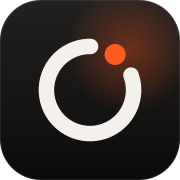
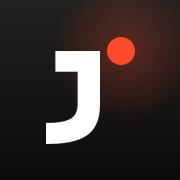
Login: a screen of its own with passkey first, email link second; drop the unused Google login
Also the new J-and-dot logo and app icons, and a hydration fix on the analysis table.

diff --git a/src/app/globals.css b/src/app/globals.css
@@ -330,11 +330,24 @@ body:has(.home) > .site-header { position: absolute; inset-inline: 0; top: 0; }
   position: fixed; inset: 0; z-index: 100;
   display: grid; place-items: center;
   background: var(--bg, #0f0f0e); color: var(--fg, #f1efea);
-  animation: lift 0.9s cubic-bezier(0.76, 0, 0.24, 1) 1.5s forwards;
+  animation: lift 0.9s cubic-bezier(0.76, 0, 0.24, 1) 2.2s forwards;
 }
-.preloader-mark { width: min(22rem, 64vw); animation: fade 0.8s cubic-bezier(0.22, 1, 0.36, 1) 0.15s both; }
-.preloader-mark img { animation: pop 0.7s cubic-bezier(0.34, 1.56, 0.64, 1) 0.6s both; }
-.logo-word { background: currentColor; -webkit-mask: url(/brand/jejak-word.png) center / 100% 100% no-repeat; mask: url(/brand/jejak-word.png) center / 100% 100% no-repeat; }
+.preloader-mark { width: min(24rem, 66vw); }
+/* Logo: the wordmark through a mask (takes the text colour), the orange dot over the K. */
+.logo { position: relative; display: inline-block; aspect-ratio: 1200 / 333; }
+.logo-word { position: absolute; inset: 0; background: currentColor; -webkit-mask: url(/brand/jejak-word.png) center / 100% 100% no-repeat; mask: url(/brand/jejak-word.png) center / 100% 100% no-repeat; }
+.logo-dot { position: absolute; left: 85.75%; top: 13.5%; width: 6.25%; aspect-ratio: 1; border-radius: 50%; background: #ff4b2b; }
+.logo-mark { position: relative; display: inline-block; aspect-ratio: 1; }
+.logo-j { position: absolute; left: 12%; bottom: 8%; height: 72%; aspect-ratio: 707 / 1216; background: currentColor; -webkit-mask: url(/brand/jejak-j.png) center / contain no-repeat; mask: url(/brand/jejak-j.png) center / contain no-repeat; }
+.logo-mark .logo-dot { left: auto; right: 10%; top: 6%; width: 22%; }
+/* the intro: each letter rises out of a soft blur, then the dot drops in, lands, and leaves a ring behind */
+.logo-letter { position: absolute; top: 0; bottom: 0; background: currentColor; -webkit-mask: url(/brand/jejak-word.png) var(--pos) 0 / var(--size) 100% no-repeat; mask: url(/brand/jejak-word.png) var(--pos) 0 / var(--size) 100% no-repeat; animation: letter-in 0.9s cubic-bezier(0.16, 1, 0.3, 1) calc(0.15s + var(--i) * 0.075s) both; }
+.logo.is-animated .logo-dot { animation: dot-drop 0.75s cubic-bezier(0.34, 1.4, 0.64, 1) 0.85s both; }
+.logo.is-animated .logo-dot::after { content: ''; position: absolute; inset: 0; border-radius: 50%; border: 2px solid #ff4b2b; animation: dot-ring 0.9s cubic-bezier(0.16, 1, 0.3, 1) 1.25s both; }
+@keyframes letter-in { from { transform: translateY(35%); opacity: 0; filter: blur(8px); } }
+@keyframes dot-drop { from { transform: translateY(-420%) scale(0.5); opacity: 0; } 60% { opacity: 1; } }
+@keyframes dot-ring { from { transform: scale(1); opacity: 0.9; } to { transform: scale(3.2); opacity: 0; } }
+@media (prefers-reduced-motion: reduce) { .logo-letter, .logo.is-animated .logo-dot, .logo.is-animated .logo-dot::after { animation: none; } }
 .preloader-name { position: absolute; bottom: 2rem; font-size: 0.85rem; letter-spacing: 0.02em; animation: fade 0.6s ease 0.5s both; }
 .intro-seen .preloader { display: none; }
 @keyframes lift { to { transform: translateY(-100%); visibility: hidden; } }
@@ -607,3 +620,26 @@ html.lenis, html.lenis body { height: auto; }
 .tabbar-more .sheet a:active, .tabbar-more .sheet button:active { background: var(--tint); }
 .tabbar-more[open] summary { color: var(--fg); }
 @keyframes sheet-in { from { opacity: 0; translate: 0 8px; scale: 0.97; } }
+
+/* Login: its own quiet screen over the admin chrome, one clear way in. */
+.login { position: fixed; inset: 0; z-index: 60; display: grid; place-items: center; align-content: center; gap: 1.5rem; padding: max(1.5rem, env(safe-area-inset-top)) 1.25rem max(1.5rem, env(safe-area-inset-bottom)); background: radial-gradient(60% 50% at 50% 0%, color-mix(in srgb, var(--orange) 14%, transparent), transparent 70%), var(--bg); overflow-y: auto; }
+.login-card { width: min(100%, 24rem); display: grid; gap: 1rem; padding: 2rem 1.75rem 1.6rem; border-radius: 1.75rem; border: 1px solid var(--line); background: color-mix(in srgb, var(--bg) 82%, var(--fg) 3%); box-shadow: 0 30px 80px -40px rgb(0 0 0 / 0.7); animation: login-in 600ms cubic-bezier(.16, 1, .3, 1) both; }
+.login-mark { width: 3.4rem; justify-self: center; color: var(--fg); padding: 0.55rem; border-radius: 1rem; background: linear-gradient(#232120, #0c0b0b); box-shadow: inset 0 0 0 1px rgb(255 255 255 / 0.08); }
+.login-title { margin: 0.25rem 0 0; text-align: center; font-size: 1.75rem !important; font-weight: 600; letter-spacing: -0.02em; }
+.login-sub { margin: -0.6rem 0 0.4rem; text-align: center; color: var(--soft); font-size: 0.95rem; }
+.login-passkey { display: flex; width: 100%; align-items: center; justify-content: center; gap: 0.6rem; padding: 0.95rem 1rem; border-radius: 1rem; background: var(--fg); color: var(--bg); font-weight: 600; font-size: 1rem; transition: background 160ms, scale 160ms; }
+.login-passkey svg { width: 1.35rem; height: 1.35rem; }
+.login-passkey:hover { background: var(--orange); color: #fff; }
+.login-passkey:active { scale: 0.98; }
+.login-passkey:disabled { opacity: 0.7; }
+.login-or { display: flex; align-items: center; gap: 0.75rem; color: var(--soft); font-size: 0.8rem; }
+.login-or::before, .login-or::after { content: ''; flex: 1; height: 1px; background: var(--line); }
+.login-email { display: grid; grid-template-columns: 1fr auto; gap: 0.5rem; }
+.login-email .field { border-radius: 0.9rem; }
+.login-email .btn { border-radius: 0.9rem; white-space: nowrap; }
+.login-hint { margin: 0; color: var(--soft); font-size: 0.8rem; text-align: center; line-height: 1.45; }
+.login-msg { margin: 0; padding: 0.7rem 0.9rem; border-radius: 0.9rem; background: var(--tint); font-size: 0.9rem; }
+.login-msg.is-error { color: var(--orange); background: color-mix(in srgb, var(--orange) 10%, transparent); }
+.login-back { color: var(--soft); font-size: 0.9rem; }
+.login-back:hover { color: var(--fg); }
+@keyframes login-in { from { opacity: 0; translate: 0 12px; scale: 0.985; } }

diff --git a/src/app/admin/login/page.tsx b/src/app/admin/login/page.tsx
@@ -1,39 +1,46 @@
+import Link from 'next/link'
+import { LogoMark } from '@/components/logo'
 import { configured } from '@/lib/supabase'
-import { signIn, signInEmail } from '../actions'
+import { signInEmail } from '../actions'
 import { PasskeySignIn } from '../passkey'
 
 export const instant = false
 
+const errors: Record<string, string> = {
+  forbidden: 'Akun itu bukan pemilik situs ini.',
+  failed: 'Login gagal atau link sudah kedaluwarsa. Coba lagi.',
+  email: 'Alamat email tidak valid.',
+}
+
+/** A screen of its own, over the admin chrome: the passkey first, the email link as the way in on a new device. */
 export default async function Login({ searchParams }: PageProps<'/admin/login'>) {
   const { e, m, sent } = await searchParams
+  const error = typeof e === 'string' ? (e === 'send' ? `Gagal mengirim link${typeof m === 'string' ? `: ${m}` : '.'}` : errors[e]) : null
   return (
-    <div className="panel max-w-md">
-      <h1>Masuk</h1>
-      <p className="mt-3 text-[var(--soft)]">Hanya pemilik yang bisa masuk.</p>
-      {e === 'forbidden' && <p role="alert" className="mt-4 text-accent">Akun itu bukan pemilik situs ini.</p>}
-      {e === 'failed' && <p role="alert" className="mt-4 text-accent">Login gagal atau link sudah kedaluwarsa. Coba lagi.</p>}
-      {e === 'email' && <p role="alert" className="mt-4 text-accent">Alamat email tidak valid.</p>}
-      {e === 'send' && <p role="alert" className="mt-4 text-accent">Gagal mengirim link{typeof m === 'string' ? `: ${m}` : '.'}</p>}
-      {sent && <p role="status" className="mt-4">Link masuk sudah dikirim. Buka email Anda di perangkat ini.</p>}
-      {configured ? (
-        <div className="mt-8 grid gap-6">
-          <PasskeySignIn />
-          <p className="note -mt-3">Perangkat baru? Masuk sekali lewat email, lalu simpan passkey di Perangkat & keamanan.</p>
-          <form action={signInEmail} className="grid gap-3">
-            <label className="grid gap-1">
-              <span className="note">Email pemilik</span>
-              <input name="email" type="email" required autoComplete="email" className="field" />
-            </label>
-            <button className="btn justify-self-start">Kirim link masuk</button>
-          </form>
-          <form action={signIn}>
-            <button className="btn btn-quiet">Masuk dengan Google</button>
-            
-          </form>
-        </div>
-      ) : (
-        <p className="mt-8">Supabase belum dikonfigurasi. Isi <code>.env.local</code> sesuai README.</p>
-      )}
+    <div className="login">
+      <div className="login-card">
+        <LogoMark className="login-mark" />
+        <h1 className="login-title">Personal OS</h1>
+        <p className="login-sub">Masuk untuk melanjutkan. Hanya pemilik.</p>
+
+        {error && <p role="alert" className="login-msg is-error">{error}</p>}
+        {sent && <p role="status" className="login-msg">Link masuk sudah dikirim. Buka email di perangkat ini.</p>}
+
+        {configured ? (
+          <>
+            <PasskeySignIn />
+            <div className="login-or"><span>atau lewat email</span></div>
+            <form action={signInEmail} className="login-email">
+              <input name="email" type="email" required autoComplete="email webauthn" placeholder="Email pemilik" aria-label="Email pemilik" className="field" />
+              <button className="btn btn-quiet">Kirim link</button>
+            </form>
+            <p className="login-hint">Perangkat baru? Masuk sekali lewat email, lalu simpan passkey di menu Perangkat.</p>
+          </>
+        ) : (
+          <p className="login-msg">Supabase belum dikonfigurasi. Isi <code>.env.local</code> sesuai README.</p>
+        )}
+      </div>
+      <Link href="/" className="login-back">← Kembali ke situs</Link>
     </div>
   )
 }

diff --git a/src/components/logo.tsx b/src/components/logo.tsx
@@ -1,19 +1,37 @@
-import Image from 'next/image'
+import type { CSSProperties } from 'react'
 
-/**
- * The JEJAK logo. The wordmark is drawn in the current text colour (white artwork would vanish on the light theme),
- * the disc keeps its own red. Numbers are the disc's place in public/brand/jejak.png.
- */
-export function Logo({ className }: { className?: string }) {
+// The JEJAK wordmark is public/brand/jejak-word.png (1200×333, letters in these columns); it is drawn in the current
+// text colour through a mask. The logogram is the wordmark's own J with the orange dot: the mark left behind.
+const LETTERS: [number, number][] = [[0, 146], [181, 346], [368, 514], [535, 781], [798, 1009]]
+const W = 1200
+
+/** Full logo: JEJAK with the dot floating over the K. `animated` plays the intro: letters rise, then the dot lands. */
+export function Logo({ className, animated }: { className?: string; animated?: boolean }) {
   return (
-    <span role="img" aria-label="Jejak" className={`relative inline-block aspect-[5833/1621] ${className ?? ''}`}>
-      <span className="logo-word absolute inset-0" aria-hidden />
-      <Image src="/brand/jejak-mark.png" alt="" width={256} height={256} className="absolute top-0 right-0 h-[47.8%] w-auto" />
+    <span role="img" aria-label="Jejak" className={`logo ${animated ? 'is-animated' : ''} ${className ?? ''}`}>
+      {animated ? (
+        LETTERS.map(([a, b], i) => (
+          <span
+            key={a}
+            className="logo-letter"
+            aria-hidden
+            style={{ left: `${(a / W) * 100}%`, width: `${((b - a) / W) * 100}%`, '--size': `${(W / (b - a)) * 100}%`, '--pos': `${(a / (W - (b - a))) * 100}%`, '--i': i } as CSSProperties}
+          />
+        ))
+      ) : (
+        <span className="logo-word" aria-hidden />
+      )}
+      <span className="logo-dot" aria-hidden />
     </span>
   )
 }
 
-/** Just the disc, for small spots. */
+/** Just the logogram, for small spots (footer, app icon). */
 export function LogoMark({ className }: { className?: string }) {
-  return <Image src="/brand/jejak-mark.png" alt="" aria-hidden width={256} height={256} className={className} />
+  return (
+    <span role="img" aria-label="Jejak" className={`logo-mark ${className ?? ''}`}>
+      <span className="logo-j" aria-hidden />
+      <span className="logo-dot" aria-hidden />
+    </span>
+  )
 }

diff --git a/src/app/admin/passkey.tsx b/src/app/admin/passkey.tsx
@@ -5,8 +5,13 @@ import { useState } from 'react'
 import { noteSignIn } from './actions'
 
 const client = () => createBrowserClient(process.env.NEXT_PUBLIC_SUPABASE_URL!, process.env.NEXT_PUBLIC_SUPABASE_ANON_KEY!)
-const say = (e: { message?: string; code?: string }) =>
-  /abort|cancel|NotAllowed/i.test(`${e.code} ${e.message}`) ? 'Dibatalkan.' : e.message ?? 'Gagal.'
+const say = (e: { message?: string; code?: string }) => {
+  const s = `${e.code} ${e.message}`
+  if (/abort|cancel|NotAllowed/i.test(s)) return 'Dibatalkan.'
+  if (/disabled/i.test(s)) return 'Passkey belum aktif di server.'
+  if (/not found|no credential|unknown/i.test(s)) return 'Belum ada passkey di perangkat ini. Masuk lewat email dulu.'
+  return e.message ?? 'Gagal.'
+}
 
 /** One tap with the fingerprint, face or device PIN: the passkey saved on this device signs the owner in. */
 export function PasskeySignIn() {
@@ -17,7 +22,7 @@ export function PasskeySignIn() {
     <div className="grid gap-2">
       <button
         type="button"
-        className="btn justify-self-start"
+        className="login-passkey"
         disabled={busy}
         onClick={async () => {
           setBusy(true)
@@ -34,9 +39,12 @@ export function PasskeySignIn() {
           setBusy(false)
         }}
       >
-        {busy ? 'Menunggu…' : 'Masuk dengan passkey'}
+        <svg viewBox="0 0 24 24" fill="none" stroke="currentColor" strokeWidth={1.7} strokeLinecap="round" aria-hidden>
+          <path d="M12 11v3m-4-3a4 4 0 0 1 8 0v1.5M6.5 8.5A7 7 0 0 1 19 11v2M5 12.5V11m3.5 6.5c.5-1.5.5-3 .5-4.5m6 0c0 2-.3 3.8-1 5.5M12 17v3" />
+        </svg>
+        {busy ? 'Menunggu sidik jari / wajah…' : 'Masuk dengan passkey'}
       </button>
-      {error && <p role="alert" className="note text-accent">{error}</p>}
+      {error && <p role="alert" className="login-msg is-error">{error}</p>}
     </div>
   )
 }

diff --git a/src/app/admin/finance/insights/page.tsx b/src/app/admin/finance/insights/page.tsx
@@ -56,7 +56,7 @@ export default async function Insights() {
 
       <section className="card overflow-x-auto">
         <table className="w-full min-w-[34rem] text-left">
-          <thead className="note"><tr><th className="py-2 font-normal" /> {A.months.map((m) => <th key={m.month} className="text-right font-normal capitalize">{monthName(m.month, 'long')}</th>)}</tr></thead>
+          <thead className="note"><tr><th className="py-2 font-normal" />{A.months.map((m) => <th key={m.month} className="text-right font-normal capitalize">{monthName(m.month, 'long')}</th>)}</tr></thead>
           <tbody className="tabular-nums">
             {([['Pemasukan', (m: MonthStat) => m.income], ['Pengeluaran', (m: MonthStat) => m.expense], ['Sisa', (m: MonthStat) => m.net], ['Disisihkan', (m: MonthStat) => (m.income ? `${Math.round((m.net / m.income) * 100)}%` : '–')]] as const).map(([label, f]) => (
               <tr key={label} className="border-t border-ink/15">

diff --git a/src/components/preloader.tsx b/src/components/preloader.tsx
@@ -12,7 +12,7 @@ export function Preloader({ name }: { name: string }) {
     try {
       sessionStorage.setItem('intro-seen', '1')
     } catch {}
-    const t = setTimeout(() => setGone(true), 2600)
+    const t = setTimeout(() => setGone(true), 3200)
     return () => clearTimeout(t)
   }, [])
   if (gone) return null
@@ -21,7 +21,7 @@ export function Preloader({ name }: { name: string }) {
       {/* runs before first paint: skip the intro on repeat visits without a flash */}
       <script dangerouslySetInnerHTML={{ __html: "try{sessionStorage.getItem('intro-seen')&&document.documentElement.classList.add('intro-seen')}catch(e){}" }} />
       <div className="preloader" aria-hidden>
-        <Logo className="preloader-mark" />
+        <Logo className="preloader-mark" animated />
         <p className="preloader-name">{name}</p>
       </div>
     </>

diff --git a/src/app/admin/actions.ts b/src/app/admin/actions.ts
@@ -20,19 +20,6 @@ function check(error: { message: string } | null) {
 
 // ── Auth ────────────────────────────────────────────────────────────────
 
-export async function signIn() {
-  const origin = (await headers()).get('origin') ?? process.env.NEXT_PUBLIC_SITE_URL
-  const db = await sessionDb()
-  const { data, error } = await db.auth.signInWithOAuth({
-    provider: 'google',
-    options: {
-      redirectTo: `${origin}/auth/callback`,
-    },
-  })
-  check(error)
-  redirect(data.url!)
-}
-
 /** Sign-in link by email: works before Google is set up. Only the owner's address gets past the callback. */
 export async function signInEmail(f: FormData) {
   const email = s(f, 'email')
